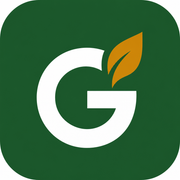
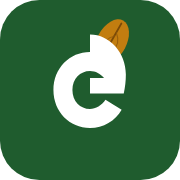
fix(orders,brand): apply 058 currency column + regenerate Harmattan PNGs
Offer validation failed in prod because orders.currency was missing from
the live schema cache; apply 058 on GWA-DATABASE and document SQL proof.
Regenerate logo PNGs from authoritative SVG via Chromium for crisp PWA/
favicon/PO watermark assets.

diff --git a/tests/orders-currency-column.test.ts b/tests/orders-currency-column.test.ts
@@ -1,0 +1,44 @@
+import { describe, expect, it } from "vitest"
+import { readFileSync } from "node:fs"
+import { join } from "node:path"
+import {
+  buildPurchaseOrderContent,
+  parsePurchaseOrderContent,
+} from "@/lib/chat/purchase-order"
+
+const root = join(__dirname, "..")
+
+describe("orders.currency — chat PO / GeniusPay alignment", () => {
+  it("migration 058 adds ISO-4217 currency with XOF default", () => {
+    const sql = readFileSync(join(root, "scripts/schema/058_order_currency.sql"), "utf8")
+    expect(sql).toMatch(/ADD COLUMN IF NOT EXISTS currency TEXT NOT NULL DEFAULT 'XOF'/)
+    expect(sql).toMatch(/orders_currency_format_check/)
+    expect(sql).toContain("^[A-Z]{3}$")
+  })
+
+  it("POST /api/orders and from-offer insert currency XOF (schema-cache safe)", () => {
+    const fromOffer = readFileSync(join(root, "app/api/orders/from-offer/route.ts"), "utf8")
+    const orders = readFileSync(join(root, "app/api/orders/route.ts"), "utf8")
+    expect(fromOffer).toMatch(/currency:\s*"XOF"/)
+    expect(orders).toMatch(/currency:\s*"XOF"/)
+  })
+
+  it("verify-payment selects currency for GeniusPay XOF gate", () => {
+    const verify = readFileSync(
+      join(root, "app/api/orders/[id]/verify-payment/route.ts"),
+      "utf8",
+    )
+    expect(verify).toMatch(/currency/)
+    expect(verify).toMatch(/UNSUPPORTED_CURRENCY|order\.currency !== "XOF"/)
+  })
+
+  it("purchase-order payload currency is frozen to XOF", () => {
+    const raw = buildPurchaseOrderContent({
+      orderId: "11111111-2222-3333-4444-555555555555",
+      amount: 2500,
+      quantity: 2,
+    })
+    const po = parsePurchaseOrderContent(raw)
+    expect(po?.currency).toBe("XOF")
+  })
+})

diff --git a/lib/chat/purchase-order.ts b/lib/chat/purchase-order.ts
@@ -110,7 +110,7 @@ export function purchaseOrderPrintHtml(po: PurchaseOrderPayload, parties: {
   const verifyCode = escapeHtml(po.orderId.replace(/-/g, "").slice(0, 12).toUpperCase())
   const amountFmt = escapeHtml(po.amount.toLocaleString("fr-FR"))
   const totalFmt = escapeHtml(total.toLocaleString("fr-FR"))
-  const markSvg = `<svg xmlns="http://www.w3.org/2000/svg" width="40" height="40" viewBox="0 0 512 512" aria-hidden="true"><rect width="512" height="512" rx="112" fill="#1F5C2E"/><path fill="#C27D10" d="M286 96c52 48 72 118 58 178-38-28-72-40-108-44 18-52 34-94 50-134z"/><path fill="#FFFFFF" d="M256 148c-58 0-104 46-104 108s46 108 104 108c38 0 72-20 90-52l-46-28c-10 16-28 26-44 26-28 0-50-22-50-54s22-54 50-54c16 0 30 8 40 20h-40v44h96c4-18 6-36 6-54 0-62-46-114-102-114z"/></svg>`
+  const markSvg = `<svg xmlns="http://www.w3.org/2000/svg" width="40" height="40" viewBox="0 0 512 512" aria-hidden="true"><rect width="512" height="512" rx="112" fill="#1F5C2E"/><g transform="translate(318 118) rotate(28)"><ellipse cx="0" cy="0" rx="42" ry="68" fill="#C27D10"/><path d="M0 -58 C-2 -20 -2 20 0 58" fill="none" stroke="#7A4A08" stroke-width="5" stroke-linecap="round"/></g><path fill="#FFFFFF" d="M256 148c-58 0-104 46-104 108s46 108 104 108c38 0 72-20 90-52l-46-28c-10 16-28 26-44 26-28 0-50-22-50-54s22-54 50-54c16 0 30 8 40 20h-40v44h96c4-18 6-36 6-54 0-62-46-114-102-114z"/></svg>`
   return `<!DOCTYPE html><html lang="fr"><head><meta charset="utf-8"/><title>Bon de commande ${num}</title>
 <style>
 body{font-family:Georgia,serif;color:#111;padding:24px;max-width:640px;margin:0 auto;position:relative}

diff --git a/docs/excellence/evidence/orders-currency-058.md b/docs/excellence/evidence/orders-currency-058.md
@@ -1,0 +1,52 @@
+# Issue 1 — `orders.currency` schema-cache fix
+
+## Root cause
+
+Chat offer validation (`POST /api/orders/from-offer`) and `POST /api/orders` insert `currency: "XOF"`.
+PostgREST returned:
+
+> Could not find the 'currency' column of 'orders' in the schema cache
+
+Live `public.orders` was missing `currency`. Repo migration `scripts/schema/058_order_currency.sql` existed but had **never been applied** on GWA-DATABASE (`frorfexbcyfbydkiwxqv`). GeniusPay validation also expects ISO-4217 `currency` on orders.
+
+## Before (SQL)
+
+```sql
+SELECT column_name FROM information_schema.columns
+WHERE table_schema='public' AND table_name='orders' AND column_name='currency';
+-- → 0 rows
+```
+
+Applied migrations included `geniuspay_naming`, `069_commerce_fk_indexes`, etc., but **not** `058_order_currency`.
+
+## Fix
+
+Applied via Supabase MCP `apply_migration` name=`058_order_currency`:
+
+```sql
+ALTER TABLE public.orders
+  ADD COLUMN IF NOT EXISTS currency TEXT NOT NULL DEFAULT 'XOF';
+-- + CHECK orders_currency_format_check (currency ~ '^[A-Z]{3}$')
+NOTIFY pgrst, 'reload schema';
+```
+
+App code already inserts `currency: "XOF"` — no GeniusPay/FeexPay contract changes.
+
+## After (SQL)
+
+```sql
+SELECT column_name, data_type, is_nullable, column_default
+FROM information_schema.columns
+WHERE table_schema='public' AND table_name='orders' AND column_name='currency';
+-- currency | text | NO | 'XOF'::text
+
+SELECT currency, COUNT(*)::int AS n FROM public.orders GROUP BY currency;
+-- XOF | 5   (existing rows backfilled by DEFAULT)
+```
+
+Migration recorded: version `20261103102411` / name `058_order_currency`.
+
+## Proof
+
+- Unit: `tests/orders-currency-column.test.ts` (migration SQL + insert sites + PO payload XOF)
+- Live schema verified via Supabase MCP `execute_sql` (see above)

diff --git a/docs/excellence/evidence/branding/logo-regen-2026-11-03.md b/docs/excellence/evidence/branding/logo-regen-2026-11-03.md
@@ -1,0 +1,29 @@
+# Issue 2 — Logo PNG regeneration (best quality)
+
+## Source of truth
+
+- Vector: `public/icon.svg` — white geometric **G** + ochre leaf (`#C27D10`) on green `#1F5C2E` (Harmattan)
+- SVG refined so the leaf has a clear midrib (aligned with prior high-res PNG brand look)
+- Raster export: Playwright Chromium screenshot of the SVG at exact pixel sizes, then sharp PNG re-encode (lossless palette=false, compressionLevel 9)
+
+## Regenerated paths
+
+| Path | Size |
+|------|------|
+| `public/icon-32.png` | 32×32 |
+| `public/apple-icon.png` | 180×180 |
+| `public/icon-192.png` | 192×192 |
+| `public/icon-512.png` | 512×512 |
+| `public/icon-master.png` | 1024×1024 |
+| `docs/excellence/evidence/branding/marketplace-logo-header-320.png` | 320×320 |
+| `docs/excellence/evidence/branding/marketplace-logo-header-1024.png` | 1024×1024 |
+| `docs/excellence/evidence/branding/mcp-marketplace-logo-320.png` | 320×320 |
+| `docs/excellence/evidence/branding/mcp-marketplace-logo-1024.png` | 1024×1024 |
+| `docs/excellence/evidence/branding/po-watermark.png` | 512×512 soft mark |
+
+## Wiring (unchanged, verified correct)
+
+- `app/layout.tsx` metadata icons → `/icon.svg`, `/icon-32.png`, `/icon-192.png`, `/icon-512.png`, `/apple-icon.png`
+- `public/manifest.json` PWA icons → same PNGs + SVG
+- `components/brand/gwa-mark.tsx` → `/icon.svg`
+- `lib/chat/purchase-order.ts` print HTML mark → inline SVG matching `icon.svg`

diff --git a/docs/excellence/PR-currency-logo-fix.md b/docs/excellence/PR-currency-logo-fix.md
@@ -1,0 +1,19 @@
+# PR body — Fix orders.currency + logo PNG quality
+
+## Summary
+
+1. **CRITICAL:** Production offer validation failed with PostgREST `Could not find the 'currency' column of 'orders' in the schema cache`. Root cause: `orders.currency` missing on live GWA-DATABASE; migration `058_order_currency` was in-repo but never applied. Applied on prod DB + documented before/after SQL. App already inserts `currency: "XOF"` (GeniusPay contracts untouched).
+2. **Brand:** Regenerated Harmattan logo PNGs (32 / 180 / 192 / 512 / 1024) from authoritative SVG via Chromium export; refreshed PO watermark + evidence assets; PO print mark aligned with SVG.
+
+## Test plan
+
+- [x] `pnpm test -- tests/orders-currency-column.test.ts`
+- [x] Live SQL: `orders.currency` exists, default `XOF`, 5 rows backfilled
+- [x] Visual Read on `public/icon-512.png`, `icon-master.png`, `apple-icon.png`
+- [ ] Manual: accept chat offer → order creates without schema-cache error
+- [ ] Manual: favicon / PWA icon / header mark look crisp
+
+## Evidence
+
+- `docs/excellence/evidence/orders-currency-058.md`
+- `docs/excellence/evidence/branding/logo-regen-2026-11-03.md`
